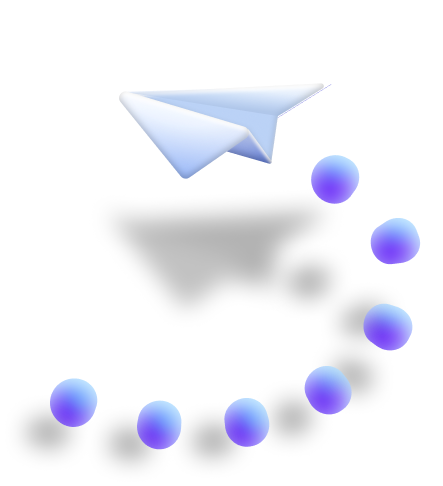
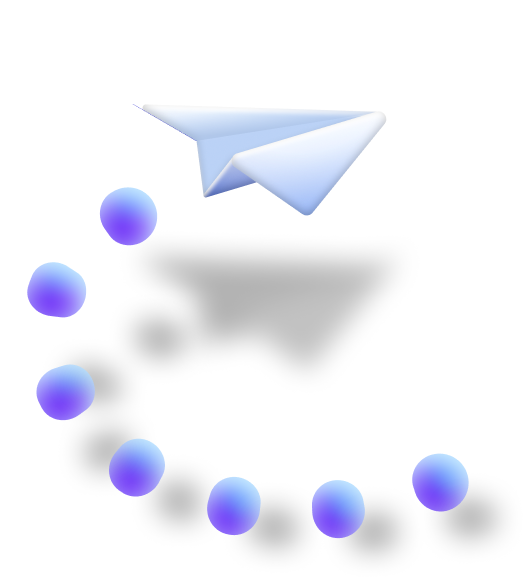
fix(EarnMore): Change paper-plane image

diff --git a/src/components/screens/EarnMore/index.js b/src/components/screens/EarnMore/index.js
@@ -116,7 +116,13 @@ const FeaturesPage = () => {
               </Row>
             </Col>
             <Col max_width='100%'>
-              <img src={paperPlane} alt='paper plane' width='100%' height={474} />
+              <img
+                src={paperPlane}
+                alt='paper plane'
+                width='100%'
+                height={474}
+                className='rotate'
+              />
             </Col>
           </Row>
         </Col>
@@ -136,7 +142,7 @@ const FeaturesPage = () => {
                       <Col>
                         <Circle>{key}</Circle>
                       </Col>
-                      <Col max_width={285}>
+                      <Col max_width={293}>
                         <Text level={4}>{title}</Text>
                         <br />
                         <Text level={3} color='dark25'>

diff --git a/src/styles/main.less b/src/styles/main.less
@@ -193,3 +193,8 @@ html {
 .text-left {
   text-align: left !important;
 }
+
+.rotate {
+  -webkit-transform: scaleX(-1);
+  transform: scaleX(-1);
+}
